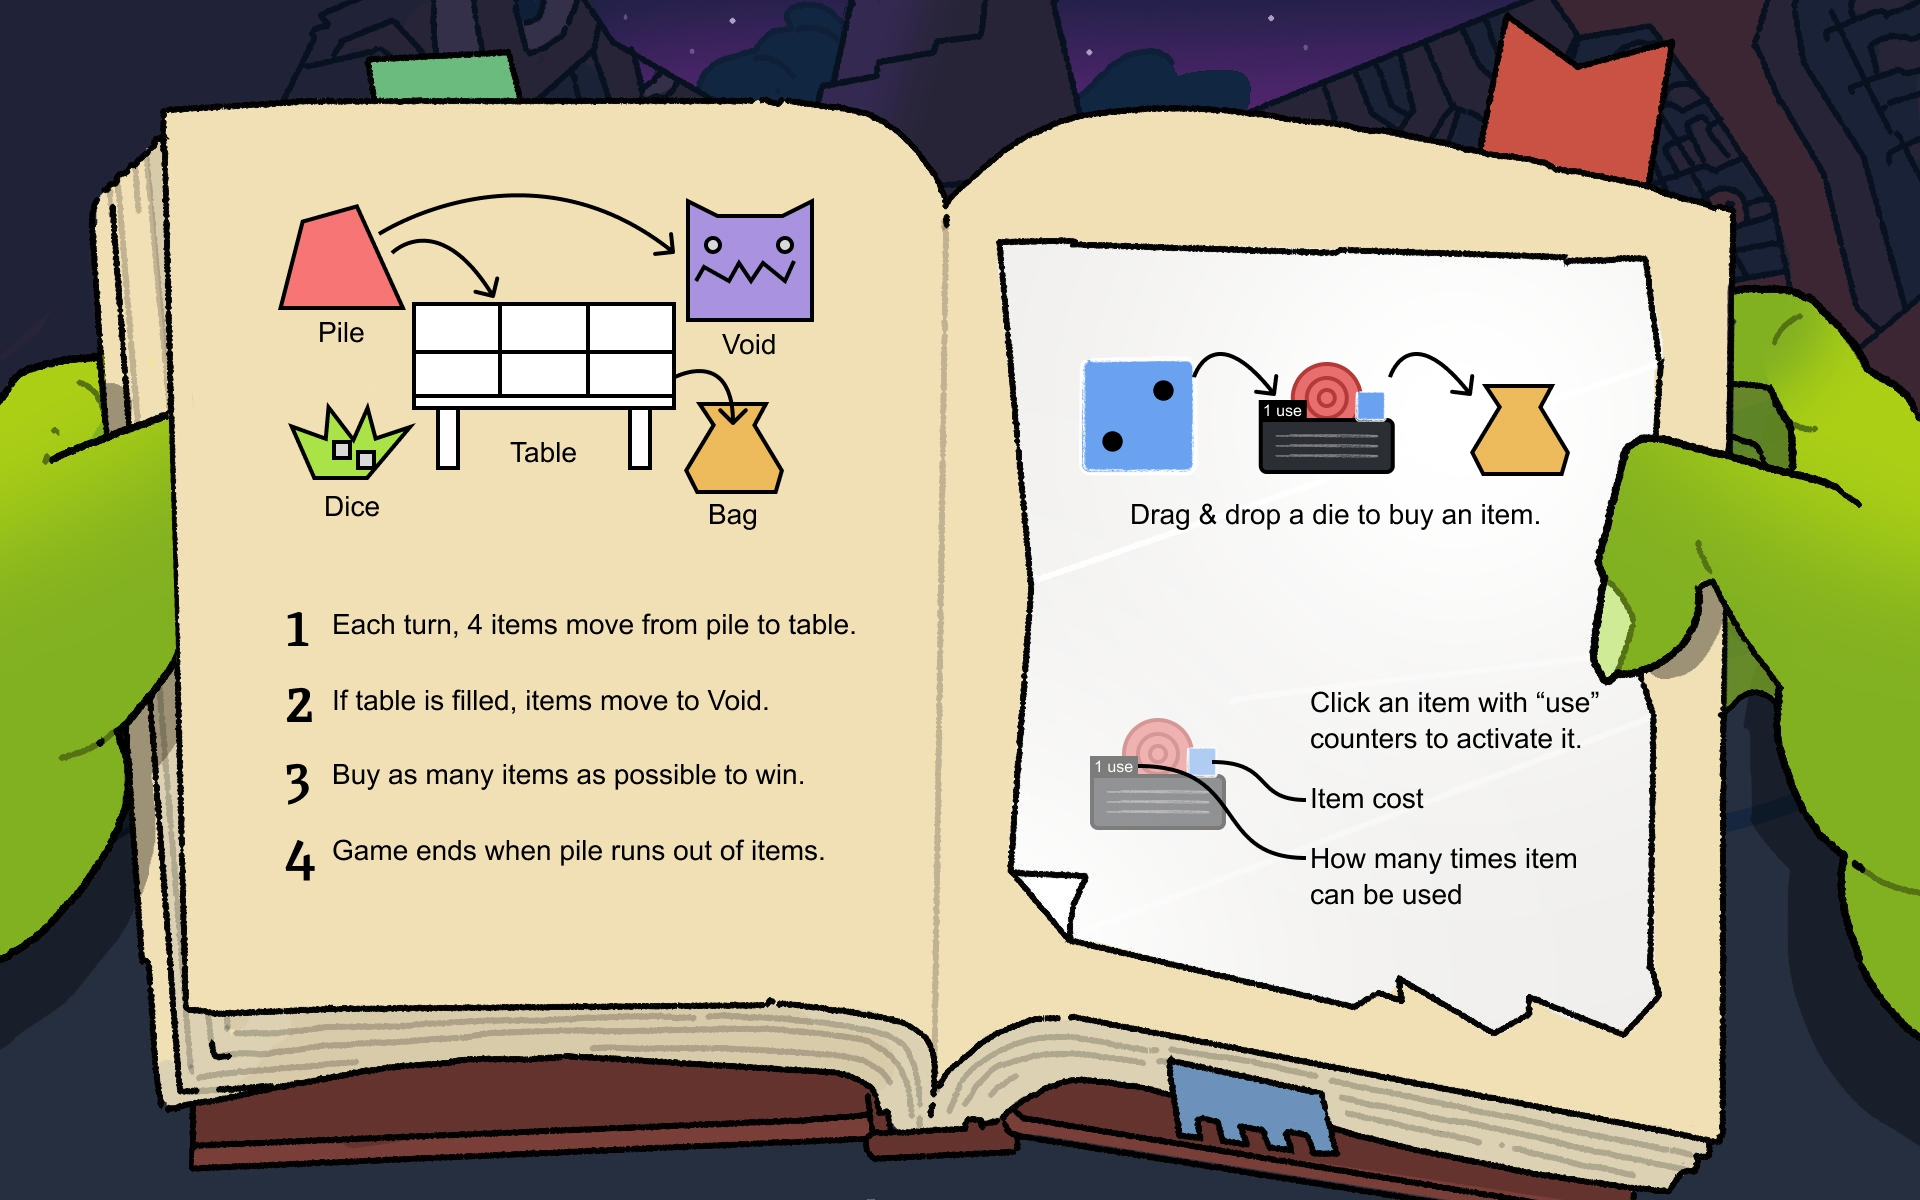
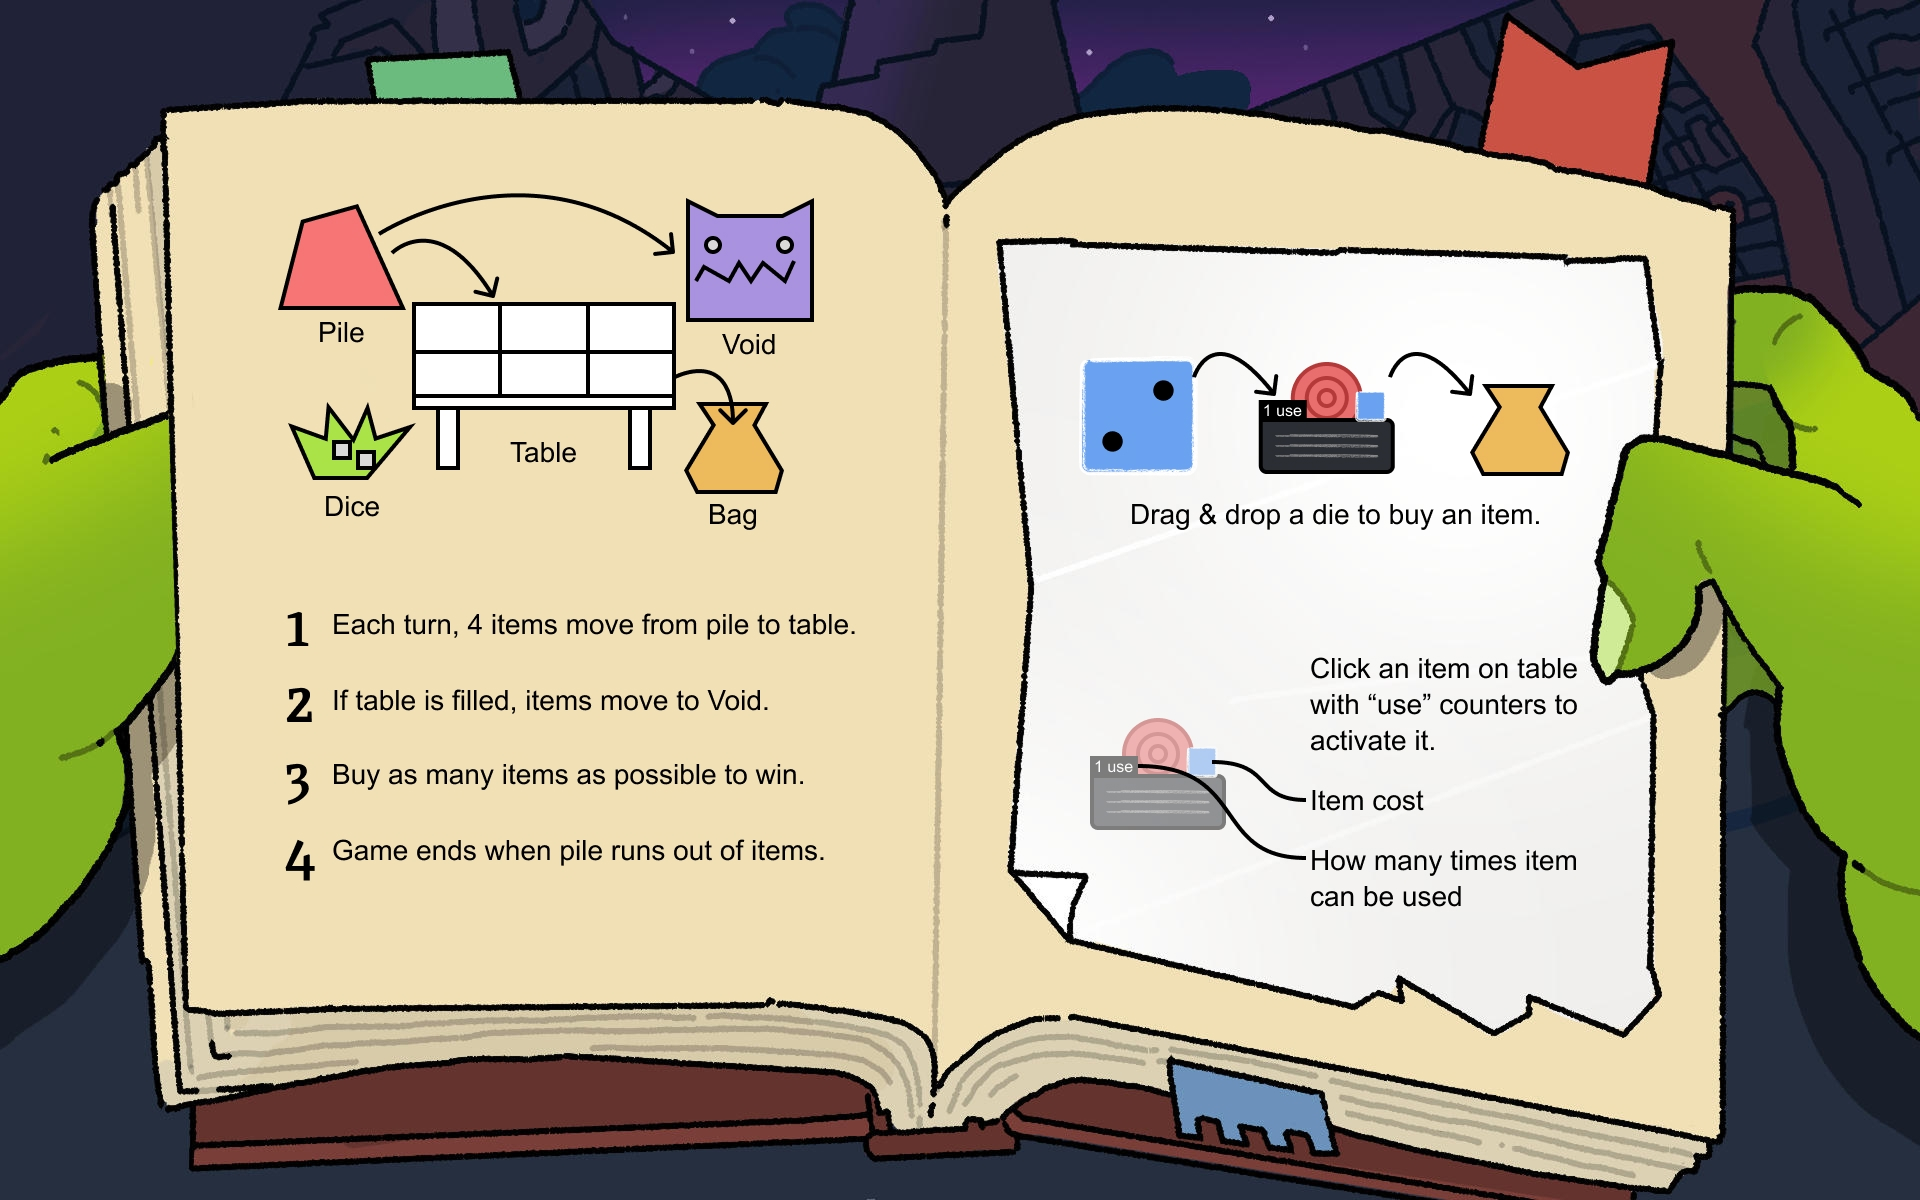
1

Changed region(s): [[0.6875, 0.555, 0.8438, 0.6783], [0.6875, 0.7092, 0.8125, 0.7708]]

diff --git a/js/config.js b/js/config.js
@@ -16,7 +16,7 @@ let config = {
         // clearLs: true,
         // itemFilter:['tool', 'relic'],
         // gameState: {
-        //     table: ['pliers','necronomicon', 'catapult'],
+        //     table: ['crown','necronomicon', 'catapult', 'jar'],
         //     void:  ['acid','glue','acid','acid','glue','acid','glue', 'pliers','necronomicon', 'catapult', 'acid','glue','pliers','necronomicon', 'catapult'],
         //     bag:   ['acid','glue','acid','glue', 'pliers','necronomicon', 'catapult', 'acid','glue','pliers','necronomicon', 'catapult'],
         //     pile:  ['glue','saw','frog'],

diff --git a/js/effects.js b/js/effects.js
@@ -43,7 +43,7 @@ let itemEffectRef = {
         })) return
         new Die({value:1})
 
-        // new Alert(`An item was moved to void, a 1-value die was generated by Jar.`)
+        new Alert(`An item was moved to void, a 1-value die was added.`, this.name)
 
     },
     binder(item){

diff --git a/js/items.js b/js/items.js
@@ -384,4 +384,3 @@ class Card {
             
         }
 }
-